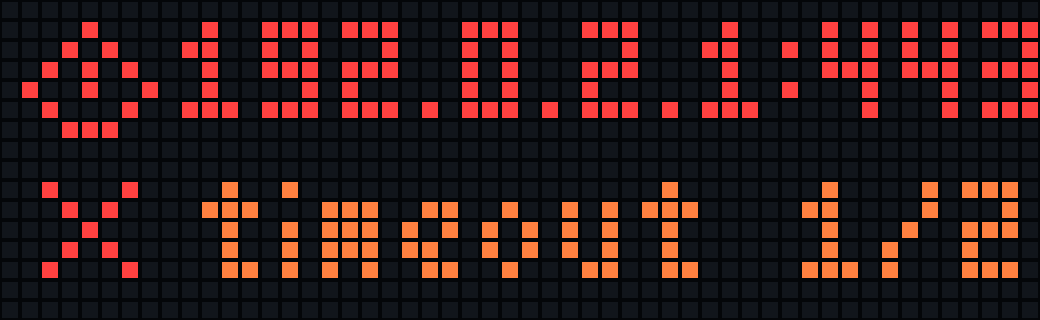
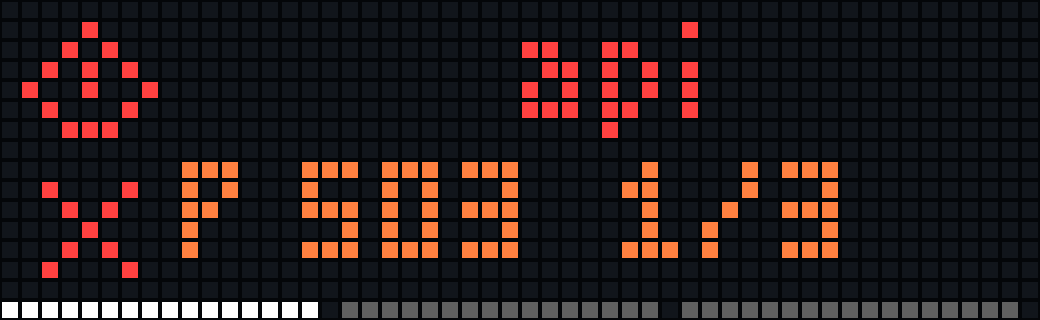
Added host number indicator

diff --git a/docs/media/README.md b/docs/media/README.md
@@ -1,18 +1,18 @@
 # AWTRIX Hub media
 
-The page-layout screenshots were captured from the real 52×16 TC002 framebuffer running NetworkMonitor 0.27. The relative-gradient images and updated GIFs use actual framebuffer captures of a synthetic demo of the rendering introduced in 0.30. Screenshots are rendered at **1040×320** with a visible LED matrix: each source pixel occupies a 20×20 cell with a 16×16 LED face and dark gaps. Unlit cells use a dim neutral face so the grid remains visible. Lit-pixel colors and positions are preserved, without smoothing, added labels, or fabricated results. The same presentation is applied to the GIF.
+The refreshed HOME, ALERTS and NODES screenshots and GIFs are actual **52×16 TC002 framebuffer captures of a synthetic demo of the NetworkMonitor 0.31 renderer**. They use fictional hosts (`nas`, `api`, `vpn`, `db`), the documentation-only IP `192.0.2.1`, and synthetic results/history. They are promotional examples, not measured network results. The temporary demo used the revised production rendering methods, with network polling disabled.
+
+Each source pixel occupies a 20×20 cell with a 16×16 LED face and dark gaps. Output is **1040×320**, without smoothing. Unlit cells have a dim neutral face so the pixel grid stays visible. Captured lit-pixel colors and positions are preserved.
 
 ## AWTRIX Hub cover
 
-[networkmonitor-cover.gif](networkmonitor-cover.gif) is the dedicated **4-second**, **40-frame**, **1040×320** cover (about 19 KB). It shows a readable HOME scene followed by a full-width relative response-history graph with green-to-orange peaks and red failure columns. The LED-grid rendering is the same as the screenshots.
+[networkmonitor-cover.gif](networkmonitor-cover.gif) is a looping **4-second, 40-frame, 1040×320** cover. It shows HOME, ALERTS with a position indicator, and a populated relative response-history graph with an indicator, green-to-orange peaks and red failure columns. The scenes are joined with editorial cuts.
 
 ![NetworkMonitor Hub cover](networkmonitor-cover.gif)
 
-Still images: [HOME](networkmonitor-cover-home.png) and [history](networkmonitor-cover-history.png).
+Stills: [HOME](networkmonitor-cover-home.png), [ALERTS](networkmonitor-cover-alerts.png), [NODES history](networkmonitor-cover-history.png).
 
-The HOME cover scene and relative-history scene were recorded on the actual TC002 in separate temporary demos. The cover combines those recordings with an editorial cut. The IP `192.0.2.1`, host `nas`, counters, response times, and populated history are **synthetic promotional data**, not measured network results. The production script and all its configuration values were restored and compared with the pre-capture backups afterward. The older screenshot series below remains a separate set of real observations with temporary demonstration hosts.
-
-## Files
+## Page screenshots
 
 | Page | Full-width layout | With instance icon |
 | --- | --- | --- |
@@ -21,27 +21,32 @@ The HOME cover scene and relative-history scene were recorded on the actual TC00
 | NODES / TCP | [nodes-tcp.png](nodes-tcp.png) | [nodes-tcp-with-icon.png](nodes-tcp-with-icon.png) |
 | NODES / HTTP | [nodes-http.png](nodes-http.png) | [nodes-http-with-icon.png](nodes-http-with-icon.png) |
 
-[networkmonitor-demo.gif](networkmonitor-demo.gif) is a looping **10.8-second**, **10 fps**, **1040×320** animation showing HOME followed by stable, slightly varying and strongly varying relative response histories. These are synthetic demonstrations captured from the device, joined with editorial cuts. It replaces the older page-tour GIF.
-![NetworkMonitor demonstration](networkmonitor-demo.gif)
+ALERTS has three position marks, one per current failure. NODES has four marks, one per configured target. The current item is white; the others are gray. The enabled-by-default indicator occupies the last content row, to the right of the optional instance icon.
 
-## Capture setup
+## Animated demonstration
 
-The user's actual hosts were temporarily replaced with `example.com` and the documentation-only address `192.0.2.1`. Public IP requests were redirected away from the real-IP service. The second series attempted to retrieve the documentation address `203.0.113.42` from a static-response endpoint, but that request failed on the device; HOME therefore honestly shows the unavailable-IP marker (`!`). No actual public IP appears in these images.
+[networkmonitor-demo.gif](networkmonitor-demo.gif) is a **23.6-second, 10 fps, 1040×320** animation showing HOME, all three alerts and all four targets, first without the instance icon and then with it. Page timing is controlled by the synthetic demo; text scrolling, icon animation and the position marks are rendered on the device.
 
-TCP/HTTP results and short histories are real observations of the temporary capture setup. Some HTTP requests failed; failure labels and graph bars have not been retouched. A full history takes multiple scans to accumulate, so the graphs are intentionally sparse.
+## Verification and privacy
 
-All original configuration values were restored and compared with the pre-capture backup after recording. No original hostnames, credentials, configuration backups, or raw capture logs are included in this directory.
+Both capture runs compiled and completed without reported runtime errors. The installed monitoring source and every original stored configuration value were restored and compared exactly after recording. No original hostnames, credentials, configuration backups or raw capture logs are included in this directory. The complete revised app has not been deployed as part of this media capture.
+
+`tools/render_release_media.py <capture.json>` converts the local privacy-safe capture into the eight PNG screenshots, cover stills and raw RGB sequences for GIF encoding. The source JSON remains local; the rendering step does not access the device.
 
 ## Relative-latency examples
 
-These actual TC002 framebuffer captures show synthetic histories using the accepted relative mapping at `graph_full_pct=100`:
+These earlier actual TC002 synthetic-demo captures use the relative mapping accepted for 0.30, before the position row was added:
 
 - [Stable 5 ms](graph-relative-flat-device.png): entirely green despite full-height autoscaling.
 - [Small 5–6 ms fluctuations](graph-relative-jitter-device.png): slight tint without an orange peak.
 - [Large 5–50 ms changes](graph-relative-spikes-device.png): orange peaks, greener falling values and red failures.
 
-The original installed source and every stored configuration value were restored and compared exactly after capture.
+## Indicator boundary checks
 
-## Rendering the updated media
+Actual TC002 synthetic demos: [four hosts](node-indicator-device.gif), [52 hosts](node-indicator-max-device.gif), [maximum-width still](node-indicator-max-device.png), and [53-target validation error](node-limit-device.png).
 
-`tools/render_hub_media.py --home <home-capture.json> --relative <relative-capture.json>` renders the privacy-safe framebuffer recordings into PNGs and raw RGB sequences for GIF encoding. The source JSON recordings remain local; they are not shipped with the repository. No device configuration is changed by this rendering step.
+At maximum width, the final row contains exactly one white and 51 gray pixels. Production initialization accepted 52 synthetic TCP targets and rejected 53 with `Host limit` / `53 / 52 max`. Network polling was disabled in those test harnesses. Source and configuration were restored and compared exactly afterward.
+
+## Single-item layouts
+
+Actual TC002 synthetic-demo captures with indicators enabled: [one NODES host](single-nodes-device.png), [one ALERTS failure](single-alerts-device.png), and the corresponding [NODES](single-nodes-with-icon-device.png) / [ALERTS](single-alerts-with-icon-device.png) layouts with an instance icon. No position mark is drawn. Framebuffer checks confirmed that NODES uses all eight graph rows through row 15, and ALERTS retains its original second-line baseline with the last row blank. Both runs reported no compile or runtime errors. Installed source and every original configuration value were restored and compared exactly afterward.

diff --git a/README.md b/README.md
@@ -2,7 +2,7 @@
 
 Keep an eye on your network from your AWTRIX NG clock. NetworkMonitor checks TCP services and HTTP endpoints, shows your public IP address, and cycles through a network overview, active failures, and per-host response history.
 
-**Platform:** Ulanzi TC002 · **Display:** 52 × 16 · **Version:** 0.30
+**Platform:** Ulanzi TC002 · **Display:** 52 × 16 · **Version:** 0.31
 
 **Authors:** Dr-Dream / ChatGPT / Codex
 
@@ -53,6 +53,8 @@ The lower counters use the full available interface width; their indentation abo
 +--------------------------------------------------+
 ```
 
+An optional bottom-row indicator shows the current alert in white and other active failures in gray. Its positions refer only to failed targets, in alert order. It uses the same spacing and colors as the NODES indicator, and is enabled by default through **Show page indicators**. With just one failure, the indicator is hidden and the original text position is retained. The second text line moves up one pixel while the indicator is visible.
+
 Only failed targets appear here. The first line shows the target; the second shows the failure reason and its position in the failure list. The upper pictogram and lower cross identify an alert; the cross pulses. The page is skipped when there are no failed targets.
 
 Examples of failure reasons include `HTTP 503`, `Network error`, `timeout`, `refused`, and `dns`; TCP reason strings come from the firmware.
@@ -74,14 +76,15 @@ The graph fills the lower half of the available interface area:
 - One completed check occupies one pixel column.
 - Successful bars use a green-to-orange vertical gradient relative to the minimum successful response time in each node’s retained history. Stable values stay green; small fluctuations receive a slight tint, and substantial increases move toward orange. Falling values become greener again. **Full orange increase** (100% by default) sets the minimum relative growth needed to reach orange; when the observed range is larger, its maximum becomes the orange endpoint. Bar heights scale to the largest successful response time in the retained history.
 - Failed checks are full-height red bars.
+- An optional bottom-row host indicator highlights the current host in white and the others in gray. Slots are distributed evenly across the available interface width, with small gaps where space permits. Each host has its own slot, up to one host per pixel. The combined TCP + HTTP target count must not exceed the available content width (52 without an instance icon; 36 with default icon geometry on TC002). Excess targets reject the entire list and show a Host limit message; checks remain paused until the configuration is corrected. With just one host, the indicator is hidden and the graph keeps its full height. The graph reserves one row only while the indicator is visible. Disable **Show page indicators** to restore the full graph height.
 - Oldest samples appear on the left; newest samples appear on the right. Once full, the graph drops the oldest sample.
 - With no samples, a dim baseline is shown. With no configured targets, the page displays `--` and `0 targets`.
 
 The graph is drawn directly below the header across the full available width; the sketch uses punctuation only to suggest bars.
 
-### Relative response history in 0.30
+### Relative response history
 
-Actual device captures with synthetic data. Colors compare successful response times within each node’s retained history, rather than using fixed millisecond thresholds.
+Earlier actual device captures of the gradient, before the position row was added, with synthetic data. Colors compare successful response times within each node’s retained history, rather than using fixed millisecond thresholds.
 
 | Stable 5 ms | Small 5–6 ms variation | Large 5–50 ms changes |
 | --- | --- | --- |
@@ -164,6 +167,9 @@ All settings are available in the app's gear menu. Defaults below apply to a new
 | **Page mode** (`mode`) | `auto` | `auto` or `manual`; see controls above. |
 | **Minimum entry duration** (`pagetime`) | 5 s | Minimum time for HOME or one target entry, not an entire target list; 2–30 s. |
 | **Scroll wait limit** (`scrollwait`) | 60 s | Maximum wait per entry; 10–180 s. The effective limit is at least the minimum entry duration. |
+| **Show page indicators** (`node_indicator`) | On | Show evenly spaced position marks in the bottom row of NODES and ALERTS when the page has at least two items. Enabled by default. |
+| **Active position indicator** (`color_node_active`) | `#FFFFFF` | Current host or alert mark. |
+| **Other position indicators** (`color_node_idle`) | `#606060` | Other host or alert marks. |
 | **Graph gradient** (`graph_gradient`) | On | Green-to-orange vertical gradient for successful history bars. Off uses a solid Success color. |
 | **Full orange increase** (`graph_full_pct`) | 100% | Minimum increase above the retained successful minimum needed for full orange; 10–1000%. Larger values soften the color change. |
 | **Scroll speed** (`scrollspeed`) | 65% | Scrolling speed; 10–300%. Firmware base speed at 100% is 21 pixels/s. |
@@ -209,13 +215,13 @@ TCP checks test whether a connection can be established. HTTP checks test the fi
 
 No API key or external icon pack is required. Do not include passwords or tokens in monitored URLs: URLs appear on screen and in logs.
 
-Version 0.27 was compiled and run on TC002 with AWTRIX NG 1.2.3. All six instance icons were checked through the device framebuffer. This verification does not cover every network failure mode or firmware version.
+Version 0.27 was compiled and run on TC002 with AWTRIX NG 1.2.3; all six instance icons were checked through the framebuffer. The 0.31 rendering methods were compiled and captured in a synthetic device demo, including ALERTS and NODES indicators with and without an instance icon. Boundary tests accepted 52 targets and rejected 53 without an icon. These tests do not cover every network failure mode, firmware version or deployment of the full revised app.
 
 Complete source: [NetworkMonitor.ax](NetworkMonitor.ax). Implementation details: [architecture](docs/architecture.md).
 
 ## Screenshots and animation
 
-[Downloadable PNG screenshots and animated GIF](docs/media/README.md) include real device captures with temporary demonstration hosts and synthetic promotional scenes. The relative-gradient examples below show the rendering introduced in 0.30; the page-layout captures show 0.27. The original source and configuration were restored after recording.
+[Downloadable PNG screenshots and animated GIF](docs/media/README.md) include real device captures with temporary demonstration hosts and synthetic promotional scenes. The relative-gradient examples below show the rendering introduced in 0.30; the refreshed HOME, ALERTS and NODES captures show a synthetic demo of the 0.31 renderer. The original source and configuration were restored after recording.
 
 Screenshots and animation use a visible LED grid with dark gaps between pixels, preserving the captured pixel layout and lit colors.
 
@@ -245,9 +251,9 @@ Screenshots and animation use a visible LED grid with dark gaps between pixels, 
 
 ### AWTRIX Hub cover
 
-A staged demonstration of HOME and a populated history graph, rendered on the device using synthetic data.
+A staged demonstration of HOME, ALERTS and a populated history graph with position indicators, rendered on the device using synthetic data.
 
-<img src="docs/media/networkmonitor-cover.gif" alt="NetworkMonitor cover showing HOME and response history with failure bars" width="520">
+<img src="docs/media/networkmonitor-cover.gif" alt="NetworkMonitor HOME, ALERTS and relative response history with position indicators" width="520">
 
 ### Animated demonstration
 

diff --git a/docs/hub-description.md b/docs/hub-description.md
@@ -2,7 +2,7 @@
 
 Keep an eye on your network from your AWTRIX NG clock. NetworkMonitor checks TCP services and HTTP endpoints, shows your public IP address, and cycles through a network overview, active failures, and per-host response history.
 
-**Platform:** Ulanzi TC002 · **Display:** 52 × 16 · **Version:** 0.30
+**Platform:** Ulanzi TC002 · **Display:** 52 × 16 · **Version:** 0.31
 
 **Authors:** Dr-Dream / ChatGPT / Codex
 
@@ -51,6 +51,8 @@ The lower counters use the full available interface width; their indentation abo
 +--------------------------------------------------+
 ```
 
+An optional bottom-row indicator shows the current alert in white and other active failures in gray. Its positions refer only to failed targets, in alert order. It uses the same spacing and colors as the NODES indicator, and is enabled by default through **Show page indicators**. With just one failure, the indicator is hidden and the original text position is retained. The second text line moves up one pixel while the indicator is visible.
+
 Only failed targets appear here. The first line shows the target; the second shows the failure reason and its position in the failure list. The upper pictogram and lower cross identify an alert; the cross pulses. The page is skipped when there are no failed targets.
 
 Examples of failure reasons include `HTTP 503`, `Network error`, `timeout`, `refused`, and `dns`; TCP reason strings come from the firmware.
@@ -72,14 +74,15 @@ The graph fills the lower half of the available interface area:
 - One completed check occupies one pixel column.
 - Successful bars use a green-to-orange vertical gradient relative to the minimum successful response time in each node’s retained history. Stable values stay green; small fluctuations receive a slight tint, and substantial increases move toward orange. Falling values become greener again. **Full orange increase** (100% by default) sets the minimum relative growth needed to reach orange; when the observed range is larger, its maximum becomes the orange endpoint. Bar heights scale to the largest successful response time in the retained history.
 - Failed checks are full-height red bars.
+- An optional bottom-row host indicator highlights the current host in white and the others in gray. Slots are distributed evenly across the available interface width, with small gaps where space permits. Each host has its own slot, up to one host per pixel. The combined TCP + HTTP target count must not exceed the available content width (52 without an instance icon; 36 with default icon geometry on TC002). Excess targets reject the entire list and show a Host limit message; checks remain paused until the configuration is corrected. With just one host, the indicator is hidden and the graph keeps its full height. The graph reserves one row only while the indicator is visible. Disable **Show page indicators** to restore the full graph height.
 - Oldest samples appear on the left; newest samples appear on the right. Once full, the graph drops the oldest sample.
 - With no samples, a dim baseline is shown. With no configured targets, the page displays `--` and `0 targets`.
 
 The graph is drawn directly below the header across the full available width; the sketch uses punctuation only to suggest bars.
 
-### Relative response history in 0.30
+### Relative response history
 
-Actual device captures with synthetic data. Colors compare successful response times within each node’s retained history, rather than using fixed millisecond thresholds.
+Earlier actual device captures of the gradient, before the position row was added, with synthetic data. Colors compare successful response times within each node’s retained history, rather than using fixed millisecond thresholds.
 
 | Stable 5 ms | Small 5–6 ms variation | Large 5–50 ms changes |
 | --- | --- | --- |
@@ -162,6 +165,9 @@ All settings are available in the app's gear menu. Defaults below apply to a new
 | **Page mode** (`mode`) | `auto` | `auto` or `manual`; see controls above. |
 | **Minimum entry duration** (`pagetime`) | 5 s | Minimum time for HOME or one target entry, not an entire target list; 2–30 s. |
 | **Scroll wait limit** (`scrollwait`) | 60 s | Maximum wait per entry; 10–180 s. The effective limit is at least the minimum entry duration. |
+| **Show page indicators** (`node_indicator`) | On | Show evenly spaced position marks in the bottom row of NODES and ALERTS when the page has at least two items. Enabled by default. |
+| **Active position indicator** (`color_node_active`) | `#FFFFFF` | Current host or alert mark. |
+| **Other position indicators** (`color_node_idle`) | `#606060` | Other host or alert marks. |
 | **Graph gradient** (`graph_gradient`) | On | Green-to-orange vertical gradient for successful history bars. Off uses a solid Success color. |
 | **Full orange increase** (`graph_full_pct`) | 100% | Minimum increase above the retained successful minimum needed for full orange; 10–1000%. Larger values soften the color change. |
 | **Scroll speed** (`scrollspeed`) | 65% | Scrolling speed; 10–300%. Firmware base speed at 100% is 21 pixels/s. |
@@ -207,7 +213,7 @@ TCP checks test whether a connection can be established. HTTP checks test the fi
 
 No API key or external icon pack is required. Do not include passwords or tokens in monitored URLs: URLs appear on screen and in logs.
 
-Version 0.27 was compiled and run on TC002 with AWTRIX NG 1.2.3. All six instance icons were checked through the device framebuffer. This verification does not cover every network failure mode or firmware version.
+Version 0.27 was compiled and run on TC002 with AWTRIX NG 1.2.3; all six instance icons were checked through the framebuffer. The 0.31 rendering methods were compiled and captured in a synthetic device demo, including ALERTS and NODES indicators with and without an instance icon. Boundary tests accepted 52 targets and rejected 53 without an icon. These tests do not cover every network failure mode, firmware version or deployment of the full revised app.
 
 Complete source: [NetworkMonitor.ax](https://github.com/Dr-Dream/AwtrixNetworkMonitor/blob/main/NetworkMonitor.ax). Implementation details: [architecture](https://github.com/Dr-Dream/AwtrixNetworkMonitor/blob/main/docs/architecture.md).
 

diff --git a/docs/architecture.md b/docs/architecture.md
@@ -30,3 +30,15 @@ Initialization caches a small RGB palette from `color_ok` to `color_graph_top` a
 Stable values remain green; small relative changes stay near green, while large increases reach orange. Decreasing values return toward green. Colors adapt as samples leave the history window. Failed samples retain solid `color_fail` columns; disabling `graph_gradient` uses solid successful bars.
 
 The palette is bounded by the graph height and drawing allocates no per-frame collections. The graph method was exercised in a temporary TC002 demo with constant 5 ms, 5–6 ms fluctuations and 5–50 ms spikes. Actual framebuffer captures confirmed the intended colors. Source and configuration were restored and compared exactly afterward; the full revised monitoring app has not been installed as part of this change.
+
+## NODES position marks
+
+The optional host indicator partitions the available content width into at most one slot per pixel. The active slot follows `node_pos` in `node_indexes` order. Larger slots reserve a one-pixel gap. Initialization rejects a combined valid TCP/HTTP list larger than the content width, clears the runtime list, and exposes a visible configuration error. The loop performs no checks until configuration is corrected. Graph bounds exclude the bottom row only when the indicator is enabled and there are at least two hosts. The cached palette supports the full graph height, including the single-host case. Rendering uses integer arithmetic and allocates no collections. The four-host indicator was compiled and captured on TC002 using synthetic data, with exact source/configuration restoration afterward.
+
+On-device boundary checks also accepted 52 synthetic TCP targets and rejected 53 with a visible `Host limit` error. A separate 52-host rendering demo confirmed exactly one white and 51 gray indicator pixels. Network polling was disabled in those test harnesses. These checks do not constitute deployment of the full revised app.
+
+ALERTS and NODES share `draw_position_indicator(count, position)`. ALERTS supplies the failure count and `fail_pos`; NODES supplies the target count and `node_pos`. Both pages suppress marks for zero or one item. The ALERTS second text baseline moves up one pixel only when an indicator is visible (enabled and at least two failures). The existing `node_indicator`, `color_node_active` and `color_node_idle` keys are retained for configuration compatibility; their UI labels now refer to page positions. HOME and eight-row rendering are unchanged.
+
+The combined 0.31 renderer was compiled and captured on TC002 in a temporary synthetic demo, with and without an instance icon. ALERTS displayed three marks for three failures; NODES displayed four for four configured targets. Captures exercised scrolling text and page changes without runtime errors. The original source and all stored configuration values were restored and compared exactly afterward.
+
+Single-item behavior was also verified on TC002 in synthetic demos with indicators enabled, with and without an instance icon. Pixel checks confirmed the eight-row graph through row 15 for one NODES host and the original ALERTS text position with a blank final row for one failure. Both runs completed without compile/runtime errors, and original source/configuration were restored and compared exactly.

diff --git a/docs/configuration.md b/docs/configuration.md
@@ -40,3 +40,11 @@ At default settings, stable 5 ms samples remain green, 5–6 ms variation receiv
 Bar heights remain autoscaled to the retained maximum. Failed checks remain solid `color_fail` columns. Disabling the gradient restores solid `color_ok` bars. The palette is cached during initialization; drawing allocates no collections.
 
 The relative mapping was compiled and executed in a temporary TC002 demo with synthetic histories. Framebuffer checks confirmed green-only stable samples, a slight tint for small fluctuations, and orange peaks with red failures for large changes. The original source and all stored configuration values were restored and compared exactly. This verifies the demo rendering, not deployment of the complete revised monitoring app.
+
+## NODES and ALERTS position indicators
+
+`node_indicator` (labelled **Show page indicators**) defaults to true. On displays taller than eight rows, NODES reserves the last row of the available content area for host-position marks and uses the remaining rows for history. The instance icon retains its own area. The active mark uses `color_node_active` (white by default); others use `color_node_idle` (gray by default). With no targets, no marks are drawn. With a single target, no marks are drawn and the graph keeps its full height.
+
+Each host receives an evenly partitioned slot. Slots at least three pixels wide leave a one-pixel gap when there is more than one host; narrower slots are contiguous. At the content-width host count, each slot is exactly one pixel. The combined valid TCP + HTTP target count is validated during initialization against the content width, even if the indicator is disabled. A larger list is rejected in full: the panel shows `Host limit` and `<count> / <limit> max`, the reason is logged, and network checks remain paused. No configured targets are silently dropped. The limit is 52 without an icon or 36 with default icon geometry on TC002; changing icon margins/inset changes the available width. Disabling the indicator restores the previous graph height. Eight-row displays retain their existing one-line NODES view.
+
+ALERTS uses the same enabled-by-default toggle and indicator colors. Its mark count is the current failure count and its active position follows the alert index, not the complete host list. The second text baseline moves from row 14 to row 13 while the indicator is visible (at least two failures) so the last pixel row stays clear for the marks. With no failures, ALERTS falls back to HOME and shows no marks. With a single failure, no mark is drawn and the original text baseline is retained. Disabling **Show page indicators** restores the original ALERTS text baseline and full NODES graph height.

diff --git a/docs/hub-whats-new.md b/docs/hub-whats-new.md
@@ -1,7 +1,7 @@
-# What’s new in 0.30
+# What’s new in 0.31
 
-- Added a relative green-to-orange gradient to successful response-history bars.
-- Stable response times stay green, even when autoscaling makes the bars tall. Small fluctuations receive a slight tint; substantial increases move toward orange. Lower values become greener again.
-- Colors adapt to each host’s retained successful minimum and maximum, without fixed millisecond thresholds. Failed checks remain solid red.
-- Added **Graph gradient**, **Full orange increase** (default 100%), and **Slow graph color** settings. Disable the gradient to keep solid success-color bars.
-- Updated the device screenshots and animated Hub cover to demonstrate the new history colors.
+- Added bottom-row position indicators to **NODES and ALERTS**, enabled by default. The current item is white; other items are gray. NODES shows all hosts, while ALERTS shows only active failures. With just one item on a page, its indicator is hidden and the original graph height or text position is retained.
+- Marks are distributed evenly across the available width, becoming one pixel per item at maximum capacity. Colors are configurable; disable **Show page indicators** to restore the previous layout.
+- Added validation of the combined TCP + HTTP host count against the available interface width: 52 without an instance icon, or 36 with default icon geometry on TC002. An oversized list displays **Host limit** and pauses checks instead of silently omitting hosts.
+- Added relative green-to-orange response-history gradients: stable values remain green, small fluctuations receive a slight tint, and large increases turn orange. Failed checks remain red. Adjust **Full orange increase** and **Slow graph color**, or disable **Graph gradient** for solid bars.
+- Refreshed the screenshots, animated demonstration and Hub cover with synthetic, privacy-safe device captures.
